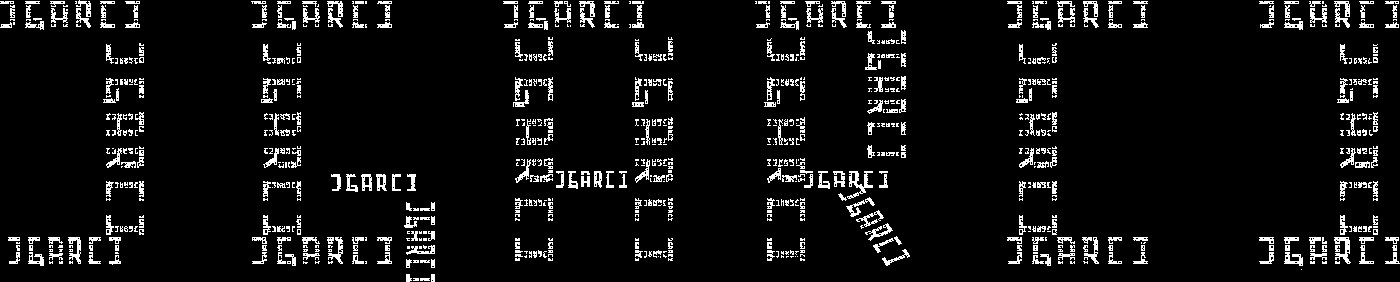
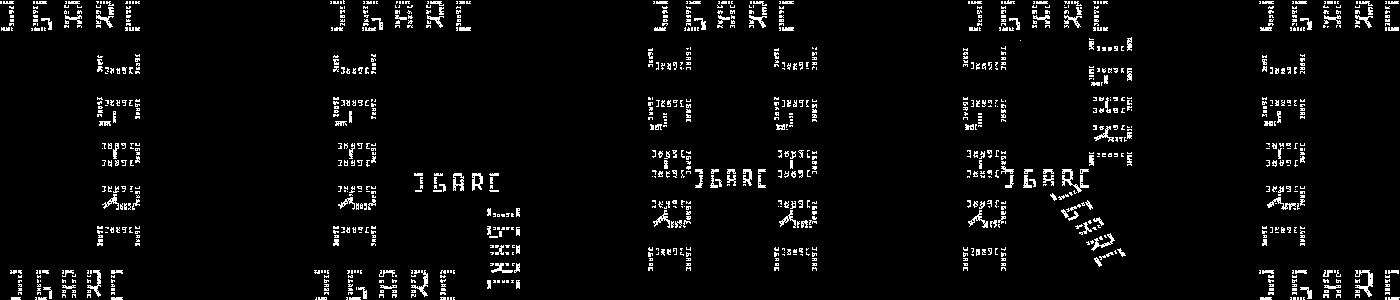
ifs 5 letras

diff --git a/trabajo grupo/ifs5letras copy.py b/trabajo grupo/ifs5letras copy.py
@@ -1,0 +1,115 @@
+# IFS fractals
+# FB - 201003221
+from PIL import Image
+import random
+
+
+# En este caso habría que hacer los mismos ajustes que en el anterior, pudiendo omitirse el ajuste de tamaño de R angle ajustando eso si la posicion en x e y
+# he tenido que ajustar el inferior de la J, C, G , I pasando la y de 
+# he tenido que ajustar el vertical hacia la izquierda de la J passndo de   de G v r paso de A vertical right pasa de  R v r pasa de  a 
+# hay que subir las barras horizontales de la A, la R y la G
+# hay que ajustar la vertical derecha de G y R
+# hay que ajustar el top de G,A,R , moviendolos hacia la derecha
+# hay que ajustar la vertical de la C
+
+class IFS:
+	def __init__(self):
+		self.mat = [
+			
+			
+						[0.1,0,0,0.1,-6,8,0.03225806452], #J top
+						[0,0.08,-0.24,0,-5.6,6.1,0.03225806452], #J v
+						[0.08,0,0,0.1,-6,2,0.03225806452], # J bot
+
+						[0.1,0,0,0.1,-1.8,8,0.03225806452], #G top
+						[0,0.08,-0.24,0,-2.6,6.1,0.03225806452], #G v l
+						[0.1,0,0,0.1,-2,2,0.03225806452],	#G bot
+						[0, 0.06, -0.1, 0, -0.6, 3.6, 0.03225806452], #G v r
+						[0.06, 0, 0, 0.06, -1, 4.5, 0.03225806452],# G v mid
+
+						[0.1, 0, 0, 0.1, 2.3, 8, 0.03225806452], # A top
+						[0,0.08,-0.28,0,1.4,6,0.03225806452], # A v l
+						[0,0.08,-0.28,0,3.0,6,0.03225806452], # A vertical right
+						[0.05, 0, 0, 0.06, 2.5, 4.6, 0.03225806452], # A mid
+
+						[0.1,0,0,0.1,6.3,8,0.03225806452],#R top
+						[0,0.08,-0.28,0,5.4,6.0,0.03225806452],#R v left
+						[0,0.08,-0.16,0,7,7.0,0.03225806452],#R v r
+						[0.06, 0, 0, 0.06, 6.5, 4.6, 0.03225806452],#R mid
+						[0.035,0.05,-0.09,0.035,6.8,3.90,0.03225806452],#R angle
+
+						[0.1, 0, 0, 0.1, 10, 8, 0.03225806452],#C top
+						[0,0.08,-0.24,0,9.2,6.1,0.03225806452],#C v 
+						[0.1, 0, 0, 0.1, 10, 2, 0.03225806452]#C bot
+						
+						
+						
+			
+					
+			]
+
+	def inserta_ifs(self,a,b,c,d,e,f,p):
+		self.mat.append([a,b,c,d,e,f,p])
+	
+	def genera_ifs(self):
+		# image size
+		imgx = 1400
+		imgy = 800 # will be auto-re-adjusted
+		
+		m = len(self.mat)
+		# find the xmin, xmax, ymin, ymax
+		x = self.mat[0][4]
+		y = self.mat[0][5]
+		#
+		xa = x
+		xb = x
+		ya = y
+		yb = y
+		#
+		for k in range(imgx * imgy):
+			p=random.random()
+			psum = 0.0
+			for i in range(m):
+				psum += self.mat[i][6]
+				if p <= psum:
+					break
+			x0 = x * self.mat[i][0] + y * self.mat[i][1] + self.mat[i][4]
+			y  = x * self.mat[i][2] + y * self.mat[i][3] + self.mat[i][5]
+			x = x0
+			#
+			if x < xa:
+				xa = x
+			if x > xb:
+				xb = x
+			if y < ya:
+				ya = y
+			if y > yb:
+				yb = y
+		
+		# drawing
+		imgy = round(imgy * (yb - ya) / (xb - xa)) # auto-re-adjust the aspect ratio
+		image = Image.new("L", (imgx,imgy))
+		
+		x=0.0
+		y=0.0
+		for k in range(imgx * imgy):
+			p=random.random()
+			psum = 0.0
+			for i in range(m):
+				psum += self.mat[i][6]
+				if p <= psum:
+					break
+			x0 = x * self.mat[i][0] + y * self.mat[i][1] + self.mat[i][4]
+			y  = x * self.mat[i][2] + y * self.mat[i][3] + self.mat[i][5]
+			x = x0
+			jx = int((x - xa) / (xb - xa) * (imgx - 1))
+			jy = (imgy - 1) - int((y - ya) / (yb - ya) * (imgy - 1))
+			image.putpixel((jx, jy), 255)
+		
+		image.save("IFS.png")
+		image.show()
+
+if __name__ == "__main__":
+	ifs = IFS()
+	#ifs.inserta_ifs()
+	ifs.genera_ifs()
